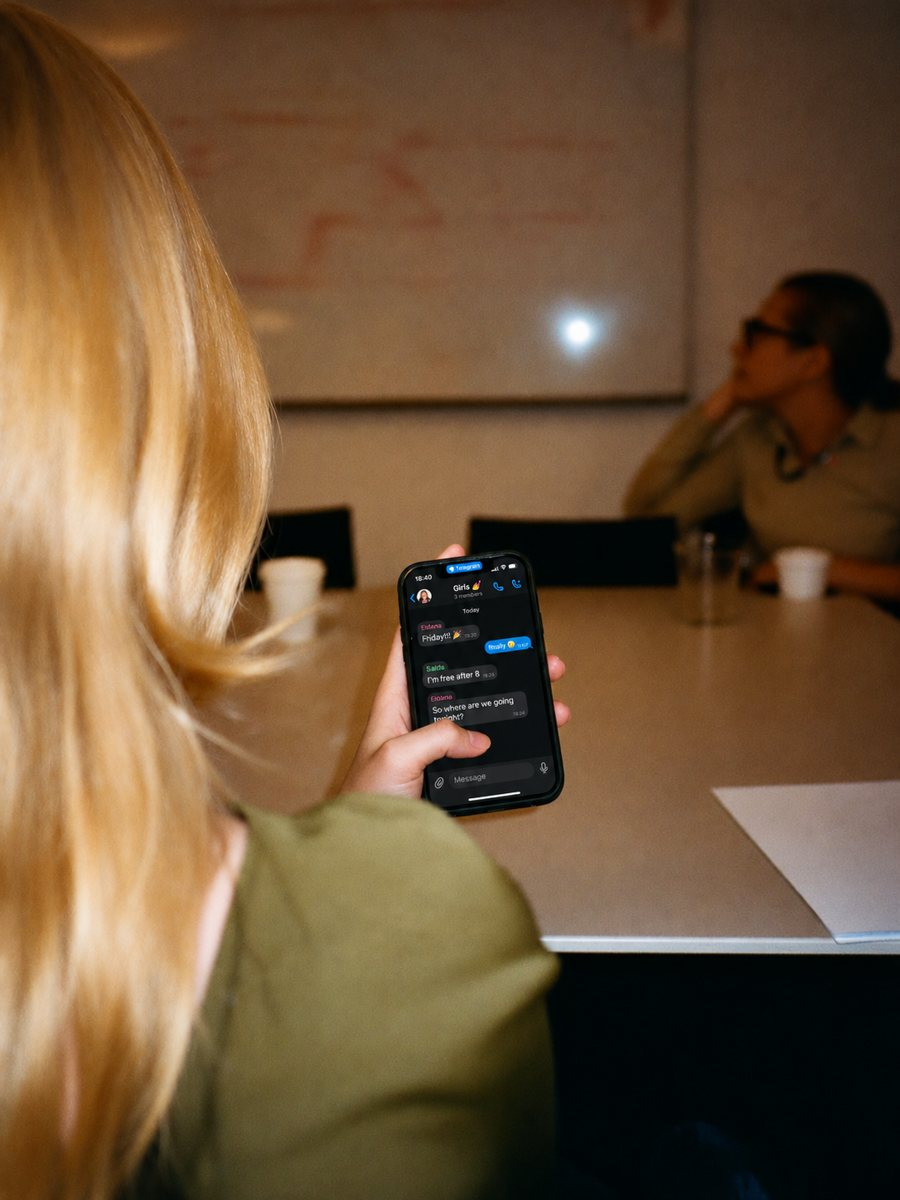
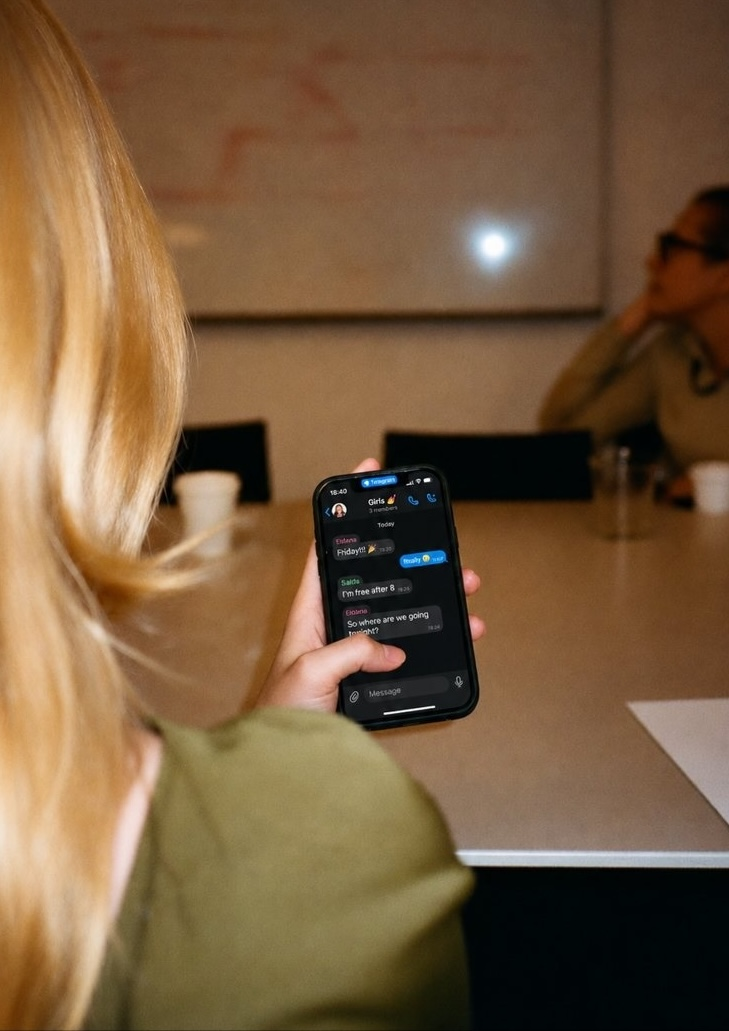
Add files via upload

diff --git a/index.html b/index.html
@@ -3,7 +3,7 @@
 <head>
 <meta charset="utf-8">
 <meta name="viewport" content="width=device-width, initial-scale=1">
-<title>Munira Khakimova, portfolio</title>
+<title>Munira Khakimova — Portfolio</title>
 <link rel="preconnect" href="https://fonts.googleapis.com">
 <link rel="preconnect" href="https://fonts.gstatic.com" crossorigin>
 <link href="https://fonts.googleapis.com/css2?family=Cormorant:ital,wght@0,500;0,600;1,500;1,600&family=Jost:wght@400;500&display=swap" rel="stylesheet">
@@ -96,6 +96,22 @@ h3 { font-family: var(--display); font-weight: 600; font-size: clamp(27px, 3.4vw
 .btn { display: inline-block; justify-self: start; padding: 14px 24px; border: 1px solid currentColor; text-decoration: none; font-weight: 500; font-size: 12px; letter-spacing: 0.24em; text-transform: uppercase; }
 .btn:hover { background: var(--cream); color: var(--ink); border-color: var(--cream); }
 
+.how { margin-top: clamp(48px, 7vw, 80px); display: grid; gap: 22px; }
+.steps { list-style: none; margin: 0; padding: 0; display: grid; grid-template-columns: repeat(4, minmax(0, 1fr)); gap: 14px; }
+.steps li { background: #2a0d1c55; border: 1px solid #f6eedd55; padding: 20px 20px 22px; display: grid; gap: 8px; align-content: start; }
+.steps li.ai { background: #f6eedd; color: var(--ink); border-color: #f6eedd; }
+.steps li.ai code { background: #2a0d1c18; }
+.steps .n { font-weight: 500; font-size: 12px; letter-spacing: 0.32em; opacity: 0.8; }
+.steps b { font-family: var(--display); font-style: italic; font-weight: 600; font-size: 30px; line-height: 1; }
+.steps p { font-size: 16px; }
+.beyond { margin-top: clamp(40px, 6vw, 64px); }
+.intro { margin-bottom: clamp(40px, 6vw, 64px); }
+.duo { margin-top: clamp(40px, 6vw, 64px); display: grid; grid-template-columns: repeat(2, minmax(0, 1fr)); gap: 0; border-top: 1px solid #f6eedd66; border-bottom: 1px solid #f6eedd66; }
+.duo > div { padding: 28px 28px 30px 0; display: grid; gap: 12px; }
+.duo > div + div { padding-left: 28px; border-left: 1px solid #f6eedd66; }
+.duo p { font-family: var(--display); font-style: italic; font-weight: 500; font-size: clamp(28px, 3.6vw, 42px); line-height: 1.1; }
+.between { margin-top: 26px; font-family: var(--display); font-style: italic; font-size: clamp(24px, 3vw, 32px); }
+
 /* Work */
 .case { display: grid; grid-template-columns: minmax(0, 1fr) minmax(0, 1.5fr); gap: 14px 56px; padding: 34px 0; border-top: 1px solid #f6eedd66; }
 .case:first-child { border-top: 0; padding-top: 0; }
@@ -139,6 +155,9 @@ footer .big { font-family: var(--display); font-style: italic; font-weight: 500;
   .phone { max-width: 250px; justify-self: center; }
   .grid.four { grid-template-columns: repeat(2, minmax(0, 1fr)); }
   .strip { grid-template-columns: repeat(2, minmax(0, 1fr)); }
+  .steps { grid-template-columns: repeat(2, minmax(0, 1fr)); }
+  .duo { grid-template-columns: minmax(0, 1fr); }
+  .duo > div + div { padding-left: 0; border-left: 0; border-top: 1px solid #f6eedd66; }
 }
 @media (prefers-reduced-motion: no-preference) {
   .phone { transition: transform 0.4s ease; }
@@ -161,8 +180,8 @@ footer .big { font-family: var(--display); font-style: italic; font-weight: 500;
   <div class="tag">
     <div class="label">Portfolio · Almaty</div>
     <h1>Munira <span>Khakimova</span></h1>
-    <p class="lead">I believe a happy life takes three things: something for the mind, something for the soul and something for the body.</p>
-    <p class="about">For six years I've been building social products in education, city transport and banking as a business and systems analyst. Beyond complex work problems, I love making things by hand: I sew, style my home and invent costumes. Everything I do comes down to one thing: turning an idea into a great product that's a pleasure to use.</p>
+    <p class="lead">I believe happiness comes down to three things: something for the mind, something for the soul, and something for the body.</p>
+    <p class="about">For six years, I’ve been building products across education, public transport, and banking as a business and systems analyst. And when I’m not busy untangling complex work challenges, I love making things by hand: sewing, decorating my home, and dreaming up costumes. There’s one thing behind all of it — turning an idea into something great that people genuinely enjoy using.</p>
     <div class="contacts">
       <a href="https://t.me/thatsmoony">Telegram: @thatsmoony</a>
       <a href="https://www.linkedin.com/in/munira-khakimova-39a586237/">LinkedIn</a>
@@ -181,7 +200,7 @@ footer .big { font-family: var(--display); font-style: italic; font-weight: 500;
   <div class="wrap">
     <header class="head">
       <div class="label">My own product</div>
-      <h2>Where2Go: a bot that solves the problem</h2>
+      <h2>Where2Go: a bot that solves a very real problem</h2>
     </header>
     <div class="strip">
       <figure><img src="w2g-1-work.jpg" alt="Over the shoulder in a meeting: the group chat asks where to go tonight" width="900" height="1200"><figcaption><b>18:40</b> · at work</figcaption></figure>
@@ -195,12 +214,27 @@ footer .big { font-family: var(--display); font-style: italic; font-weight: 500;
         <img src="where2go.gif" alt="Screen recording: a group vote in the Where2Go bot and the list of places it suggests" width="340" height="669">
       </div>
       <div class="prose">
-        <p>“So, where are we going in the end?” It's the question that comes up almost every time my girlfriends and I plan to meet. So many places, and yet it feels like there's nowhere to go. That's how the bot was born, as one way to solve it. At its core is a simple survey: everyone in the chat marks what they're in the mood for that evening — cuisine, drinks, budget, vibe. The bot ranks places from a shared base and returns a top list that fits the whole group.</p>
-        <p>The first version ran on a simple weighted algorithm, and every venue had to be tagged by hand. Well, AI handles that perfectly. Just type <code>/discover best raves in Berlin</code> and a list of matching places is ready. Handily, the AI tags the options in the right format straight away, so a venue can go into the base and you never spend tokens searching for it again.</p>
-        <p>Either way, people have the final say. It's either a vibe or it's not.</p>
+        <p>“So, where are we actually going?” — the question that comes up pretty much every time my friends and I try to meet up. So many places, yet somehow nowhere to go. That’s the problem that inspired this bot. The idea is simple: everyone in the chat fills out a quick poll about their plans for the evening — food, drinks, budget, and mood. The bot ranks places from a shared database and serves up the top picks to match the whole group’s taste.</p>
+        <p>The first version ran on a simple weighted algorithm, which meant tagging every venue by hand. Well, AI is pretty great at taking that off your plate. Just type <code>/discover cool raves in Berlin</code>, and voilà — a list of places that fit the brief. Even better, AI tags each suggestion in the right format, so you can add it straight to the database and won’t have to spend tokens searching for it again.</p>
+        <p>Either way, people always get the final say — it’s a vibe or it’s not.</p>
         <p class="stack">Python · aiogram · PostgreSQL · Anthropic API · Railway</p>
-        <a class="btn" href="https://github.com/mfkhakimova-boop/where2go">Code and README on GitHub</a>
+        <a class="btn" href="https://github.com/mfkhakimova-boop/where2go">Code &amp; details on GitHub</a>
       </div>
+    </div>
+    <div class="how">
+      <h3>How it works</h3>
+      <ol class="steps">
+        <li><span class="n">01</span><b>Ask</b><p>Someone types <code>/vote</code> in the group chat.</p></li>
+        <li><span class="n">02</span><b>Vote</b><p>Everyone taps cuisine, drinks, budget and vibe, wherever they are.</p></li>
+        <li><span class="n">03</span><b>Pick</b><p>The bot ranks places from the shared base and sends the top three.</p></li>
+        <li class="ai"><span class="n">AI</span><b>Scout</b><p><code>/discover</code> finds new places in any city and tags them for the base.</p></li>
+      </ol>
+    </div>
+    <div class="prose beyond">
+      <h3>Beyond the bot</h3>
+      <p>What I love most about Where2Go is how quickly an idea can turn into something real. Just one hour after identifying a problem, I had a working prototype.</p>
+      <p>But what excites me even more is its potential. Today, it’s a bot that helps friends decide where to go. Tomorrow, it could become a travel companion, a local city guide, or a discovery platform connecting people with recommendations from local communities and independent reviewers.</p>
+      <p>And why stop at places to eat? There’s a whole world out there to discover.</p>
     </div>
   </div>
 </section>
@@ -209,39 +243,39 @@ footer .big { font-family: var(--display); font-style: italic; font-weight: 500;
   <div class="wrap">
     <header class="head">
       <div class="label">Work</div>
-      <h2>Designing products is like assembling a 10,000-piece puzzle</h2>
+      <h2>Building products is like putting together a 10,000-piece puzzle</h2>
     </header>
     <div class="cases">
       <article class="case">
         <div>
-          <h3>AI in an online course builder</h3>
-          <div class="label where">Education platform</div>
+          <h3>AI for a course-building platform</h3>
+          <div class="label where">EdTech platform</div>
         </div>
         <dl>
-          <div><dt>Task</dt><dd>Build generative AI into a platform where instructional designers create courses.</dd></div>
-          <div><dt>What I did</dt><dd>The AI boom of 2023. I learned prompt engineering from scratch, designed the UI/UX for an LMS, and wrote the spec and the prompts that generate curricula along with tests on the material.</dd></div>
-          <div><dt>Result</dt><dd>I was invited to share the experience at the White Nights of Digital Technologies in Education conference. Showed it, told it :)</dd></div>
+          <div><dt>The challenge</dt><dd>Integrate generative AI into a platform where learning designers build courses.</dd></div>
+          <div><dt>What I did</dt><dd>When the AI boom hit in 2023, I taught myself prompt engineering from scratch, designed the LMS UI/UX, and wrote the technical specs and prompts for generating course plans — plus quizzes based on the learning material.</dd></div>
+          <div><dt>The outcome</dt><dd>I was invited to share the experience at the “White Nights of Digital Technologies in Education” conference. Showed up, shared the story :)</dd></div>
         </dl>
       </article>
       <article class="case">
         <div>
-          <h3>Almaty city transport app</h3>
+          <h3>Almaty public transport app</h3>
           <div class="label where">ONAY!</div>
         </div>
         <dl>
-          <div><dt>Task</dt><dd>Grow the city transport mobile app, mostly on the eCommerce side.</dd></div>
-          <div><dt>What I did</dt><dd>I was there when eCommerce was born in the ONAY! app, and helped shape and test product hypotheses.</dd></div>
-          <div><dt>Result</dt><dd>On the complex side, I designed the consent flow for personal data processing. On the creative side, I launched a fun feature for customizing transport cards.</dd></div>
+          <div><dt>The challenge</dt><dd>Develop the city’s public transport app, with a focus on eCommerce.</dd></div>
+          <div><dt>What I did</dt><dd>I was there when eCommerce was taking shape in the ONAY! app, helping develop and test new hypotheses.</dd></div>
+          <div><dt>The outcome</dt><dd>On the complex side, I designed the user flow for consent to personal data processing. On the creative side, I launched a fun feature that lets users customise their transit cards.</dd></div>
         </dl>
       </article>
       <article class="case">
         <div>
           <h3>Mobile banking for VIP clients</h3>
-          <div class="label where">One of Kazakhstan's banks</div>
+          <div class="label where">A bank in Kazakhstan</div>
         </div>
         <dl>
-          <div><dt>Task</dt><dd>Give premium clients their own section in the bank's mobile app.</dd></div>
-          <div><dt>What I did</dt><dd>Systems analyst. I designed the architecture and integrations from scratch, and we launched new functionality. I'm responsible for seamless processes, logical user flows and requirements for development, and I keep improving the product to this day.</dd></div>
+          <div><dt>The challenge</dt><dd>Create a dedicated section in the bank’s mobile app for premium clients.</dd></div>
+          <div><dt>What I did</dt><dd>As a systems analyst, I designed the architecture and integrations from scratch, and helped launch the new functionality. I’m responsible for seamless processes, intuitive user flows, and clear development requirements. And I’m still making the product better.</dd></div>
         </dl>
       </article>
     </div>
@@ -253,14 +287,19 @@ footer .big { font-family: var(--display); font-style: italic; font-weight: 500;
 <section class="band paper" id="handmade">
   <div class="wrap">
     <header class="head">
-      <div class="label">Handmade</div>
-      <h2>What I make for the soul</h2>
+      <div class="label">Made by hand</div>
+      <h2>Little things I make for the love of it</h2>
     </header>
+    <div class="prose intro">
+      <p>It all started with a Halloween costume. We had a sewing machine at home, I needed a Sailor Moon costume, and apparently buying one wasn’t an option. So I made it myself.</p>
+      <p>Since then, making things by hand has become my way to unwind and express myself. I love surrounding myself with beautiful things and bringing my own sense of beauty into the world around me.</p>
+      <p>For me, creating something isn’t just about the final result. It’s about making something that feels right, looks right, and is uniquely mine.</p>
+    </div>
 
     <div class="story">
       <div class="prose">
-        <h3>Shades for ugly boob lights</h3>
-        <p>I believe you should live beautifully and comfortably, even in a rented flat. Mine had ugly ceiling lights that killed the whole atmosphere, so I had to come up with a renter-friendly fix that lets me put everything back when I move out. The result: cheap materials from Chinese marketplaces, neodymium magnets, a pair of nimble hands… and done!</p>
+        <h3>Giving ugly ceiling lights a glow-up</h3>
+        <p>I believe you should make your home beautiful and cosy, even when you’re renting. The apartment came with some pretty sad-looking ceiling lights that killed the whole vibe. So I came up with a renter-friendly makeover that can be completely undone when it’s time to move out. The recipe: inexpensive finds from Chinese marketplaces, neodymium magnets, a little handiwork… and voilà!</p>
       </div>
       <figure class="wide">
         <img src="lamp-before.jpg" alt="A plain round ceiling light" width="1100" height="489">
@@ -281,7 +320,7 @@ footer .big { font-family: var(--display); font-style: italic; font-weight: 500;
         </figure>
         <figure>
           <img src="lamp-shell.jpg" alt="A lampshade of pearl discs and feathers on the ceiling" width="1100" height="954">
-          <figcaption><b>After</b> · discs and feathers</figcaption>
+          <figcaption><b>After</b> · discs &amp; feathers</figcaption>
         </figure>
       </div>
     </div>
@@ -290,13 +329,13 @@ footer .big { font-family: var(--display); font-style: italic; font-weight: 500;
       <div class="clothes">
         <div>
           <div class="prose">
-            <h3>Convertible satin top</h3>
-            <p>Saw something like it online and couldn't resist. A simple construction: a rectangle and four long ribbons you can tie in different ways. Cut by eye.</p>
+            <h3>A satin wrap top</h3>
+            <p>Saw something like this online and just had to make one. The design is simple: a rectangle and four long ties that can be wrapped and knotted in different ways. I cut the fabric by eye — no pattern, just vibes.</p>
           </div>
           <div class="pair">
             <figure>
               <img src="satin-process.jpg" alt="A sewing machine, green satin ribbons and a ginger cat lying on them" width="1071" height="1100">
-              <figcaption><b>Process</b> · with an assistant</figcaption>
+              <figcaption><b>In progress</b> · with an assistant</figcaption>
             </figure>
             <figure>
               <img src="satin-top.jpg" alt="The finished green satin halter top" width="916" height="1100">
@@ -306,13 +345,13 @@ footer .big { font-family: var(--display); font-style: italic; font-weight: 500;
         </div>
         <div>
           <div class="prose">
-            <h3>Denim top, a gift for my sister</h3>
-            <p>Darts, pleats at the waist and a tie at the collar. Sewn from a ready-made pattern.</p>
+            <h3>A denim top for my sister</h3>
+            <p>Darts, a gathered waist, and a tie at the neckline. Made using a ready-made pattern.</p>
           </div>
           <div class="pair">
             <figure>
               <img src="denim-process.jpg" alt="Cut denim pieces next to a sewing machine and a tape measure" width="1100" height="825">
-              <figcaption><b>Process</b></figcaption>
+              <figcaption><b>In progress</b></figcaption>
             </figure>
             <figure>
               <img src="denim-top.jpg" alt="The finished denim top with a keyhole neckline and a tie" width="825" height="1100">
@@ -326,13 +365,13 @@ footer .big { font-family: var(--display); font-style: italic; font-weight: 500;
     <div class="story">
       <div class="costume">
         <div class="prose">
-          <h3>Christmas tree costume</h3>
-          <p>I was invited to a costume party and had nothing to wear. I designed this from scratch using Pinterest references: big bows, tulle and a 3D star in red-and-white check, made from leftover wrapping paper.</p>
+          <h3>A Christmas tree costume</h3>
+          <p>Got invited to a costume party and had absolutely nothing to wear. So I made a Christmas tree costume from scratch, using Pinterest for inspiration: oversized bows, tulle, and a big red-and-white checkered star made from leftover wrapping paper.</p>
         </div>
         <div class="pair">
           <figure class="tall">
             <img src="tree-star.jpg" alt="A 3D five-pointed star folded from red-and-white checked paper" width="825" height="1100">
-            <figcaption><b>Detail</b> · star</figcaption>
+            <figcaption><b>Detail</b> · the star</figcaption>
           </figure>
           <figure class="tall">
             <img src="tree-costume.jpg" alt="Munira in a Christmas tree costume of green bows, with a star on her head" width="565" height="1100">
@@ -344,10 +383,31 @@ footer .big { font-family: var(--display); font-style: italic; font-weight: 500;
   </div>
 </section>
 
+<div class="zebra-strip" aria-hidden="true"></div>
+
+<section class="band mauve" id="manifesto">
+  <div class="wrap">
+    <header class="head">
+      <div class="label">Manifesto</div>
+      <h2>Why Soul Camp?</h2>
+    </header>
+    <div class="prose">
+      <p>I love what I do, and I’m always excited to discover new tools, experiment, and keep creating.</p>
+      <p>I’m joining Soul Camp to learn a new tool, challenge myself in an unfamiliar environment, meet inspiring people and experts, and, of course, have a genuinely good time along the way.</p>
+      <p>I’m going into the Tech track without a clear idea of what I’ll build or how Higgsfield will fit into it. And honestly, that’s what makes it even more exciting. I’m curious to see where the experiment takes me.</p>
+    </div>
+    <div class="duo">
+      <div><div class="label">My colleagues would say</div><p>Responsible. Reliable. Self&#8209;critical.</p></div>
+      <div><div class="label">My friends would say</div><p>Creative. Dreamy. Spontaneous.</p></div>
+    </div>
+    <p class="between">Somewhere in between, that’s me.</p>
+  </div>
+</section>
+
 <footer class="band satin">
   <div class="wrap">
     <div class="inner">
-      <p class="big">Get in touch</p>
+      <p class="big">Let’s make something unexpected.</p>
       <div class="contacts">
         <a href="https://t.me/thatsmoony">Telegram: @thatsmoony</a>
         <a href="https://www.linkedin.com/in/munira-khakimova-39a586237/">LinkedIn: munira-khakimova</a>
